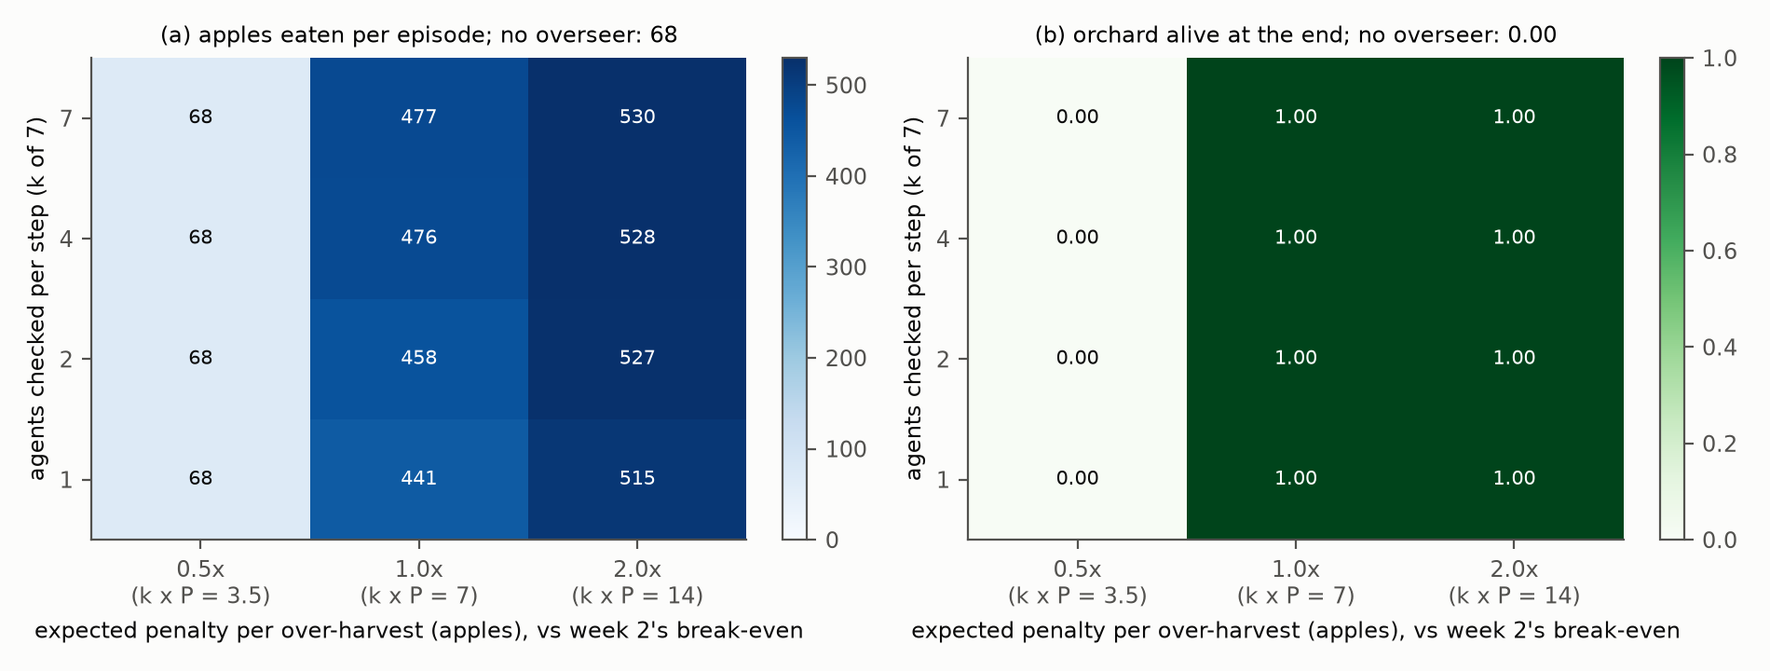
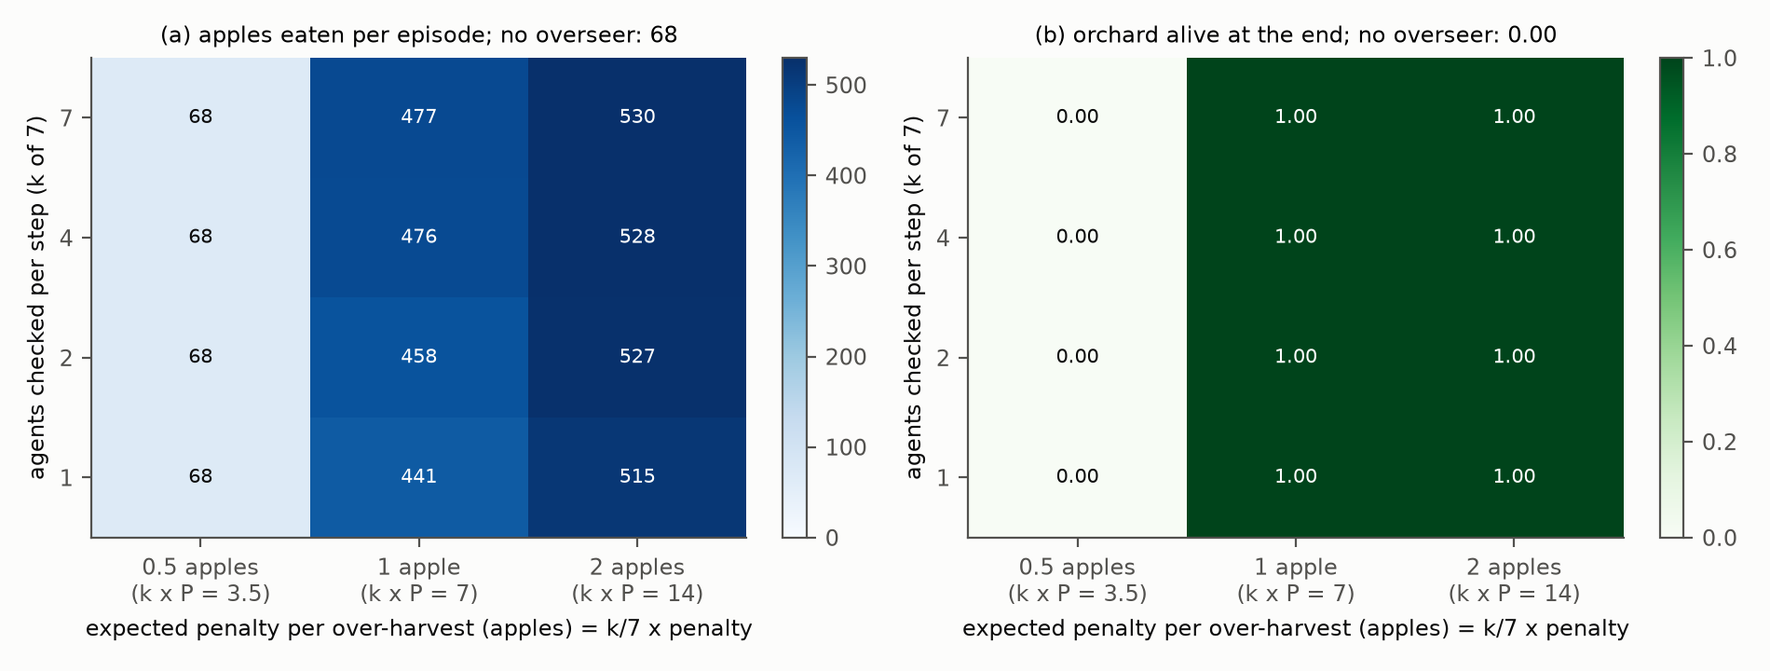
Correct expected-penalty wording: expected penalty per over-harvest is (k/7) x P, so the levels are 0.5/1/2 apples (k x P = 3.5/7/14); protocol Amendment 2; results, F17, trackers and figure labels updated. Weekly deck v2: feedback points as raised, bounding slide grounded in AI Control/Engels/Bazaa

diff --git a/notes/slides/2026-11-16_weekly_update/make_figures.py b/notes/slides/2026-11-16_weekly_update/make_figures.py
@@ -8,7 +8,7 @@ Needs:
 - the three paper PDFs in notes/icml27_lit_review/papers/Read properly/ (git-ignored; from arXiv 2504.18530,
   2501.16173 and 2610.06748). The abstract images are git-ignored too.
 
-harvest_setup.png is made by notes/slides/2026-11-16_yali_update/make_figures.py.
+harvest_setup.png and schelling_no_overseer.png are made by notes/slides/2026-11-16_yali_update/make_figures.py.
 """
 import glob
 import json
@@ -68,26 +68,31 @@ def abstracts():
 
 
 def penalty_bars():
+    """Apples eaten at each expected penalty, one bar per number of checks. Bars are seed means; whiskers the seed range."""
     plt.rcParams.update({"font.size": 13, "axes.labelsize": 13, "legend.fontsize": 12})
     t = json.load(open("notes/socialjax/phase2_ippo/summary.json"))["arms"]
-    fig, ax = plt.subplots(figsize=(9, 5.2))
+    blues = ("#c6dbef", "#6baed6", "#2171b5", "#08306b")  # 1, 2, 4, 7 checks: light to dark
+    fig, ax = plt.subplots(figsize=(9, 5.0))
     n = t["A_none"]["apples_eaten"]
-    ax.bar(0, n["mean"], 0.5, color=INK2, yerr=[[n["mean"] - n["lo"]], [n["hi"] - n["mean"]]], capsize=3)
-    w = 0.19
-    for i, (k, col) in enumerate(zip((1, 2, 4, 7), (YELLOW, BLUE, VIOLET, AQUA))):
+    ax.bar(0, n["mean"], 0.55, color="#9e9e9e", edgecolor="white")
+    ax.errorbar(0, n["mean"], [[n["mean"] - n["lo"]], [n["hi"] - n["mean"]]], color="#333333", lw=1.2, capsize=0)
+    w = 0.2
+    for i, (k, col) in enumerate(zip((1, 2, 4, 7), blues)):
         for j, c in enumerate((0.5, 1.0, 2.0)):
             r = t[f"B_random_k{k}_c{c}"]["apples_eaten"]
-            ax.bar(1 + j + (i - 1.5) * w, r["mean"], w, color=col, capsize=2,
-                   yerr=[[r["mean"] - r["lo"]], [r["hi"] - r["mean"]]],
-                   label=f"{k} of 7 checked each step" if j == 0 else None)
-    ax.axhline(500, color=INK2, ls="--", lw=1.3)
-    ax.text(-0.35, 510, "7 well-behaved scripted bots: 500", color=INK2, fontsize=11.5, va="bottom")
-    for x in (0, 1):
-        ax.text(x, 95, "orchard\ndies", ha="center", color=ORANGE, fontsize=11.5, weight="bold")
-    ax.set_xticks(range(4), ["no overseer", "3.5", "7", "14"])
-    ax.set_ylim(0, 590)
-    ax.set(xlabel="expected penalty per over-harvest (apples)", ylabel="apples eaten per game")
-    ax.legend(loc="upper left", bbox_to_anchor=(0.0, 0.86), frameon=False)
+            x = 1 + j + (i - 1.5) * w
+            ax.bar(x, r["mean"], w, color=col, edgecolor="white", linewidth=0.8,
+                   label=f"{k} of 7 agents checked per step" if j == 0 else None)
+            ax.errorbar(x, r["mean"], [[r["mean"] - r["lo"]], [r["hi"] - r["mean"]]], color="#333333", lw=1.2, capsize=0)
+    for x, txt in ((0, "orchard died\nin every run"), (1, "orchard died\nin every run"),
+                   (2, "orchard survived\nin every run"), (3, "orchard survived\nin every run")):
+        y = 95 if x < 2 else 560
+        ax.text(x, y, txt, ha="center", va="bottom" if x < 2 else "bottom", fontsize=11, color="#555555", style="italic")
+    ax.set_xticks(range(4), ["no overseer", "0.5", "1", "2"])
+    ax.set_ylim(0, 620)
+    ax.set(xlabel="expected penalty per over-harvest (apples) = chance of being checked × penalty",
+           ylabel="apples eaten per game")
+    ax.legend(loc="upper left", frameon=False, bbox_to_anchor=(0.0, 0.92))
     ax.grid(axis="x", visible=False)
     fig.tight_layout()
     fig.savefig(OUT / "penalty_threshold.png", dpi=200)

diff --git a/experiments/socialjax/analyze_phase2.py b/experiments/socialjax/analyze_phase2.py
@@ -68,10 +68,10 @@ def fig_grid(table):
             if not np.isnan(v):
                 ax.text(b, a, fmt.format(v), ha="center", va="center", fontsize=7.5,
                         color="white" if v > 0.6 * vmax else INK)
-        ax.set_xticks(range(len(LEVELS)), [f"{c}x\n(k x P = {7 * c:g})" for c in LEVELS])
+        ax.set_xticks(range(len(LEVELS)), [f"{c:g} apple{"s" if c != 1 else ""}\n(k x P = {7 * c:g})" for c in LEVELS])
         ax.set_yticks(range(len(KS)), KS)
         ax.grid(False)
-        ax.set(xlabel="expected penalty per over-harvest (apples), vs week 2's break-even",
+        ax.set(xlabel="expected penalty per over-harvest (apples) = k/7 x penalty",
                ylabel="agents checked per step (k of 7)")
         base_txt = f"; no overseer: {fmt.format(base[key]['mean'])}" if base else ""
         ax.set_title(f"{'(a)' if key == 'apples_eaten' else '(b)'} {lab}{base_txt}", fontsize=8.5)
@@ -99,7 +99,7 @@ def fig_curves(runs):
     stage1 = [("A_none", INK2, "no overseer"), ("B_random_k2_c1.0", BLUE, "random k=2, penalty 3.5"),
               ("C_freeze50_k2", ORANGE, "random k=2, freeze 50"), ("D_history_k2_c1.0", AQUA, "history k=2, penalty 3.5"),
               ("D_location_k2_c1.0", YELLOW, "location k=2, penalty 3.5")]
-    stage2 = [("R_none", INK2, "still no overseer")] + [(f"R_random_k{k}_c1.0", col, f"random k={k}, k x P = 7")
+    stage2 = [("R_none", INK2, "still no overseer")] + [(f"R_random_k{k}_c1.0", col, f"random k={k}, expected penalty 1 apple")
                                                          for k, col in zip(KS, (YELLOW, BLUE, VIOLET, AQUA))] + \
              [("R_freeze50_k2", ORANGE, "random k=2, freeze 50"), ("R_history_k2_c1.0", "#1a6b4c", "history k=2")]
     stage3 = [(f"S_off_after_B_random_k{k}_c1.0", col, f"after random k={k}") for k, col in

diff --git a/experiments/socialjax/phase2_runs.py b/experiments/socialjax/phase2_runs.py
@@ -11,7 +11,7 @@ import argparse
 
 SEEDS = (1, 2, 3)
 KS = (1, 2, 4, 7)
-LEVELS = (0.5, 1.0, 2.0)  # expected penalty per over-harvest, k x P, in units of 7 apples
+LEVELS = (0.5, 1.0, 2.0)  # expected penalty per over-harvest in apples: (k/7) x P, so P = 7c/k (k x P = 7c)
 
 
 def penalty(k, c):

diff --git a/notes/socialjax/phase2_ippo/results.md b/notes/socialjax/phase2_ippo/results.md
@@ -21,22 +21,23 @@ Run on CREATE on 15–16 Nov 2026, under `protocol.md` (with Amendment 1).
 
 ## Main table
 
-| Overseer | k × P (apples) | Apples eaten | Orchard alive | Over-harvests | Share of eats that over-harvest | Caught | Apples left at end |
+| Overseer | Expected penalty per over-harvest (apples) | Apples eaten | Orchard alive | Over-harvests | Share of eats that over-harvest | Caught | Apples left at end |
 |---|---|---|---|---|---|---|---|
 | None (arm A) | – | 68 [67, 68] | 0.00 | 30 | 45% | – | 0 |
-| Random, c = 0.5, any k | 3.5 | 68 [68, 68] | 0.00 | 27–29 | 40–42% | 4–27 | 0 |
-| Random k = 1, c = 1 | 7 | 441 [411, 457] | 1.00 | 50 | 11% | 7 | 23 |
-| Random k = 2, c = 1 | 7 | 458 [441, 470] | 1.00 | 39 | 9% | 11 | 24 |
-| Random k = 4, c = 1 | 7 | 476 [454, 493] | 1.00 | 39 | 8% | 22 | 26 |
-| Random k = 7, c = 1 | 7 | 477 [468, 483] | 1.00 | 35 | 7% | 35 | 26 |
-| Random k = 1, c = 2 | 14 | 515 [506, 530] | 1.00 | 7 | 1.4% | 1 | 29 |
-| Random k = 2, c = 2 | 14 | 527 [517, 540] | 1.00 | 6 | 1.2% | 2 | 29 |
-| Random k = 4, c = 2 (2 seeds) | 14 | 528 [523, 534] | 1.00 | 5 | 1.0% | 3 | 29 |
-| Random k = 7, c = 2 | 14 | 530 [522, 536] | 1.00 | 5 | 1.0% | 5 | 29 |
+| Random, c = 0.5, any k | 0.5 | 68 [68, 68] | 0.00 | 27–29 | 40–42% | 4–27 | 0 |
+| Random k = 1, c = 1 | 1 | 441 [411, 457] | 1.00 | 50 | 11% | 7 | 23 |
+| Random k = 2, c = 1 | 1 | 458 [441, 470] | 1.00 | 39 | 9% | 11 | 24 |
+| Random k = 4, c = 1 | 1 | 476 [454, 493] | 1.00 | 39 | 8% | 22 | 26 |
+| Random k = 7, c = 1 | 1 | 477 [468, 483] | 1.00 | 35 | 7% | 35 | 26 |
+| Random k = 1, c = 2 | 2 | 515 [506, 530] | 1.00 | 7 | 1.4% | 1 | 29 |
+| Random k = 2, c = 2 | 2 | 527 [517, 540] | 1.00 | 6 | 1.2% | 2 | 29 |
+| Random k = 4, c = 2 (2 seeds) | 2 | 528 [523, 534] | 1.00 | 5 | 1.0% | 3 | 29 |
+| Random k = 7, c = 2 | 2 | 530 [522, 536] | 1.00 | 5 | 1.0% | 5 | 29 |
 | Random k = 2, freeze 50 (arm C) | – | 77 [75, 78] | 0.00 | 32 | 41% | 9 | 0 |
-| History k = 2, c = 1 (arm D) | 7 | 470 [460, 483] | 1.00 | 32 | 7% | 9 | 26 |
-| Location k = 2, c = 1 (arm D) | 7 | 150 [122, 179] | 1.00 | 77 | 51% | 4 | 6 |
+| History k = 2, c = 1 (arm D) | 1 | 470 [460, 483] | 1.00 | 32 | 7% | 9 | 26 |
+| Location k = 2, c = 1 (arm D) | 1 (if checks were random) | 150 [122, 179] | 1.00 | 77 | 51% | 4 | 6 |
 
+- **Expected penalty per over-harvest** = chance the over-harvest is checked × penalty per catch = (k/7) × P = c apples. (Corrected 16 Nov: an earlier version of this file and of the protocol called k × P the expected penalty; k × P is 7 times it. The runs are unchanged.)
 - **"Over-harvests" is a count**, and it can rise when the orchard lives, because there are more apples to eat. The share column (over-harvests ÷ apples eaten) is the fairer comparison.
 - **"Orchard alive" means at least one apple is left at the end.** The location arm passes that test with about 6 apples left.
 
@@ -47,14 +48,14 @@ Run on CREATE on 15–16 Nov 2026, under `protocol.md` (with Amendment 1).
 - The agents settle at 68 apples per episode, against 500 for restrained bots. 45% of their eats break the m = 3 rule.
 - The setting therefore has a problem for the overseer to fix, so the "what would change the plan" condition is not triggered.
 
-**Q2. Which k × P protects the orchard, and is it the expected penalty that matters?**
-- **It is a sharp threshold set by k × P, as predicted.**
-  - At k × P = 3.5 apples, nothing changes at any k (68 apples, orchard dead). That holds even at k = 7, where every over-harvest is caught with a 0.5-apple penalty.
-  - At k × P = 7 every run saves the orchard (441–477 apples).
-  - At 14 the agents eat 515–530 apples, more than seven restrained bots (500), and only about 1% of their eats break the rule.
-- **The learners' threshold lies between 3.5 and 7 apples.** This is consistent with week 2's break-even of about 7 apples for scripted bots, though this sweep cannot place it more finely than that. A finer sweep (k × P = 4, 5, 6) would.
-- **The cheapest working overseer is k = 1 with a 14-apple penalty:** 1,000 checks per episode, 515 apples. Checking all 7 agents every step (7,000 checks) at the same expected penalty adds only 15 apples.
-- **Second-order effect of k at k × P = 7:** more checks with smaller penalties do a little better (k = 1: 441 [411, 457]; k = 7: 477 [468, 483]; the seed ranges do not overlap). A plausible reason is that a learner sees a steadier signal when catches are frequent and small. With 3 seeds this is a lead, not a result.
+**Q2. Which expected penalty protects the orchard, and is it the expected penalty that matters?**
+- **It is a sharp threshold set by the expected penalty, as predicted.**
+  - At an expected 0.5 apples per over-harvest, nothing changes at any k (68 apples, orchard dead). That holds even at k = 7, where every over-harvest is caught with a 0.5-apple penalty.
+  - At 1 apple every run saves the orchard (441–477 apples).
+  - At 2 apples the agents eat 515–530 apples, more than seven restrained bots (500), and only about 1% of their eats break the rule.
+- **The learners' threshold lies between 0.5 and 1 apple per over-harvest,** roughly the apple the over-harvest gains. This is consistent with week 2's break-even for scripted bots (about 0.9–1.1 apples; k × P ≈ 7), though this sweep cannot place it more finely than that. A finer sweep (0.6, 0.7, 0.8, 0.9 apples) would.
+- **The cheapest working overseer is k = 1 with a 14-apple penalty per catch (2 apples expected per over-harvest):** 1,000 checks per episode, 515 apples. Checking all 7 agents every step (7,000 checks) at the same expected penalty adds only 15 apples.
+- **Second-order effect of k at 1 apple expected:** more checks with smaller penalties do a little better (k = 1: 441 [411, 457]; k = 7: 477 [468, 483]; the seed ranges do not overlap). A plausible reason is that a learner sees a steadier signal when catches are frequent and small. With 3 seeds this is a lead, not a result.
 
 **Q3. Freeze or penalty?**
 - **The penalty wins clearly.** Random k = 2 with a 50-step freeze does nothing useful: 77 apples, orchard dead in every seed, and 41% of eats still break the rule.
@@ -96,6 +97,6 @@ Run on CREATE on 15–16 Nov 2026, under `protocol.md` (with Amendment 1).
 
 ## What this means for the next steps
 
-1. **Phase 3 (the overseer sets its own penalty) has a clear target.** k × P must be above about 7 apples per over-harvest, and the overseer can learn it by watching. A finer sweep at k × P = 4–6 would pin down the threshold for learners.
+1. **Phase 3 (the overseer sets its own penalty) has a clear target.** The expected penalty must be above about 1 apple per over-harvest (k × P above about 7), and the overseer can learn it by watching. A finer sweep between 0.5 and 1 apple would pin down the threshold for learners.
 2. **Phase 4 is well motivated by the location result.** A targeted rule can be worse than random even before agents adapt. The red-team loop should include a proxy-targeted overseer as a known weak baseline and test whether history targeting stays ahead once agents can see checks.
 3. **Freeze is dropped as the main consequence.** Phases 3–5 will use the reward penalty.

diff --git a/PROJECT_HISTORY.md b/PROJECT_HISTORY.md
@@ -134,7 +134,7 @@ test against the same fixed reviewer protocol.
 | **Harvest overseer wrapper and bots** (15 Nov) | Ameer: do steps 1–4 of the plan and integrate Yali's feedback. | `overseer/socialjax/` wraps SocialJax `harvest_common_open` (individual rewards): the rule (eating an apple that leaves fewer than m = 3 apples within two squares, judged on the map the agent saw), k-of-N checks (none, all, random, round_robin, history, location), penalty and freeze, a weaker inspector (miss and false-alarm rates), and a cost per check plus per step of history read (Yali's token-cost feedback). Scripted bots: restrained, greedy, sneaky, random. 15 tests pass in `.venv-socialjax`; CPU setup in `scripts/socialjax_local_setup.sh` (SocialJax 18e2171). Preview, not frozen, 5 seeds, k = 2, freeze 50 (`notes/socialjax/README.md`): one greedy bot kills the orchard with no overseer; history targeting saves it (337 apples, 5/5 alive) where random and round-robin do not; sneaky bots beat location targeting (0/5 alive). A first version judged eats after everyone moved and gave restrained bots ~30 false violations per episode; fixed. | Week 2: Schelling diagram, m, k × consequence heatmap. The CREATE smoke-job check is blocked on MFA approval. |
 | **CREATE speed check** (15 Nov) | Ameer: do step 1 (CREATE). | Smoke job 38280051 (28 Oct) completed on an A40 in 7 min 46 s. SocialJax's Harvest IPPO defaults to a shared reward, so runs need `reward=individual`. Speed jobs: 38654061 failed (node without the python module; scripts fixed); 38654092 was preempted on `interruptible_gpu`; 38654239 (A100 40GB, 1 vs 3 updates: 445 vs 356 s) showed start-up dominates; 38654514 (H200, 21 updates of 256 envs x 1,000 steps) took 421 s, so a full 1e8-step run takes at most about 2.2 h. | Week 2 with bots, then IPPO sweeps on the `gpu` partition. |
 | **Week 2 with scripted bots** (15 Nov) | Ameer: do week 2 now. | Protocol written first (`notes/socialjax/week2_bots/protocol.md`; Amendment 1 after an unexpected result). m = 3 chosen (7 restrained bots eat 500 apples vs 393 at m = 4 and 190 at m = 2; alive 10/10). Harvest Open at m = 3 is a dilemma by the greed condition (R_c(7) 71.5 > R_d(0) 9.6; R_d(6) 30.1 > R_c(6) 9.2); one greedy bot kills the orchard in 10/10. A lone greedy bot never beats all-restrain over 999 steps (30 vs 71.5), so the protocol's break-even against all-restrain does not exist; against the same group the break-even penalty times k is about 7 apples at every k (expected penalty decides, as in Fishery L4). Freeze: against 1 greedy + 6 restrained, history targeting saves the orchard at k = 2 with a 50-step freeze where random needs k = 6. Results: `notes/socialjax/week2_bots/results.md`. Runner fixes: save per part; clear JAX caches (a run died silently mid-sweep). | IPPO on CREATE: k × penalty around 7 apples, freeze vs penalty, from scratch and from over-harvesting agents. |
-| **Phase 2, IPPO learners, stage 1** (15–16 Nov) | Ameer: do IPPO on CREATE the way described. | Protocol written first (`notes/socialjax/phase2_ippo/protocol.md`; Amendment 1 after the pilot replaced the switch-off evaluation, which is identical by construction for a penalty, with stage 3 switch-off training). 46 of 48 stage 1 runs (1e8 steps, 3 seeds). No overseer: orchard dead in every env, 68 apples, 45% of eats break the rule. Random checks: k × penalty 3.5 apples does nothing at any k; 7 saves the orchard at every k (441–477 apples); 14 gives 515–530, above 7 restrained bots (500). Freeze 50 at k = 2 fails (77). History k = 2 = random at the end (470 vs 458) but alive in 98–100% of envs by update 50 vs 14–57%. Location targeting fails (150 apples; catches 5% of over-harvests vs 28% random, already 4% before learning: a bad proxy). Node arc-hpc-comp035 had no GPU; 2 runs reran (38662888), script now checks for a GPU. Results: `notes/socialjax/phase2_ippo/results.md`; F17. | Stages 2–3 (queued); finer sweep at k × P = 4–6; phase 3 (overseer sets its own penalty). |
+| **Phase 2, IPPO learners, stage 1** (15–16 Nov) | Ameer: do IPPO on CREATE the way described. | Protocol written first (`notes/socialjax/phase2_ippo/protocol.md`; Amendment 1 after the pilot replaced the switch-off evaluation, which is identical by construction for a penalty, with stage 3 switch-off training). 46 of 48 stage 1 runs (1e8 steps, 3 seeds). No overseer: orchard dead in every env, 68 apples, 45% of eats break the rule. Random checks (expected penalty per over-harvest = k/7 × penalty): 0.5 apples does nothing at any k; 1 apple saves the orchard at every k (441–477 apples); 2 gives 515–530, above 7 restrained bots (500). Freeze 50 at k = 2 fails (77). History k = 2 = random at the end (470 vs 458) but alive in 98–100% of envs by update 50 vs 14–57%. Location targeting fails (150 apples; catches 5% of over-harvests vs 28% random, already 4% before learning: a bad proxy). Node arc-hpc-comp035 had no GPU; 2 runs reran (38662888), script now checks for a GPU. Results: `notes/socialjax/phase2_ippo/results.md`; F17. | Stages 2–3 (queued); finer sweep between 0.5 and 1 apple expected; phase 3 (overseer sets its own penalty). |
 
 **7 Oct: paper exhibits.**
 - Built for claims 1–5, following how the closest papers present their results.

diff --git a/notes/claude_audit_20261005/FINDINGS_AND_IMPLICATIONS.md b/notes/claude_audit_20261005/FINDINGS_AND_IMPLICATIONS.md
@@ -187,7 +187,7 @@ Started 14 October 2026.
 
 - **Found** (SocialJax Harvest Open, 7 IPPO agents with individual rewards, 1e8 steps, 3 seeds; rule m = 3; perfect inspector; agents cannot see checks):
   - **No overseer:** the orchard dies in every env (68 apples per episode; 45% of eats break the rule).
-  - **Random checks:** k × penalty of 3.5 apples changes nothing at any k (even k = 7). At 7 every run saves the orchard (441–477 apples). At 14 the agents eat 515–530, more than 7 restrained bots (500).
+  - **Random checks** (expected penalty per over-harvest = k/7 × penalty): an expected 0.5 apples changes nothing at any k (even k = 7). At 1 apple every run saves the orchard (441–477 apples). At 2 the agents eat 515–530, more than 7 restrained bots (500).
   - **Cheapest working overseer:** k = 1 with a 14-apple penalty (515 apples with 1,000 checks per episode, against 530 with 7,000).
   - **A 50-step freeze at k = 2 fails** (77 apples).
   - **History targeting** ends level with random but protects the orchard much sooner.
@@ -196,9 +196,9 @@ Started 14 October 2026.
   - The Fishery result "the expected fine decides" (L4, F14) carries over to learning agents in a spatial game, with a threshold near the scripted-bot break-even (about 7 apples).
   - The budget question becomes how large a penalty one check can carry. That depends on false alarms, which are not yet tested.
   - Targeting is only as good as its proxy (as in Fishery T1).
-- **Paper must say.** This is the baseline result for the ICML overseer paper: a budgeted overseer works against learners once k × P is above the threshold. Targeting needs a good signal, and its gains here are speed, not end state, because parameter-shared agents have no persistent cheater.
+- **Paper must say.** This is the baseline result for the ICML overseer paper: a budgeted overseer works against learners once the expected penalty is above the threshold (about 1 apple per over-harvest, the apple it gains). Targeting needs a good signal, and its gains here are speed, not end state, because parameter-shared agents have no persistent cheater.
 - **Evidence.** `notes/socialjax/phase2_ippo/results.md`, `summary.json`, `fig_checks_by_penalty.png`, `fig_learning_curves.png`.
-- **Status:** open. Two k = 4 cells have 2 of 3 seeds (reruns queued). Late switch-on and switch-off (stages 2–3) are pending, and so is a finer sweep at k × P = 4–6.
+- **Status:** open. Two k = 4 cells have 2 of 3 seeds (reruns queued). Late switch-on and switch-off (stages 2–3) are pending, and so is a finer sweep between 0.5 and 1 apple expected. (Wording corrected 16 Nov: k × P is 7 times the expected penalty.)
 
 ---
 

diff --git a/notes/socialjax/week2_bots/results.md b/notes/socialjax/week2_bots/results.md
@@ -77,14 +77,14 @@ Fig. (a), (c): the greedy agent against the restrained agents in the same group 
 | Break-even penalty per catch (apples) | 7.6 | 3.6 | 2.4 | 1.7 | 1.3 | 1.1 | 1.0 |
 | k × break-even | 7.6 | 7.2 | 7.2 | 6.8 | 6.5 | 6.8 | 6.8 |
 
-- **Fewer checks need a proportionally bigger penalty:** k × penalty stays at about 7 apples. With a greedy agent that cannot dodge, deterrence depends on the expected penalty per over-harvest (chance of a check × penalty), not on either alone.
+- **Fewer checks need a proportionally bigger penalty:** k × penalty stays at about 7 apples, which is an expected penalty of about 1 apple per over-harvest (chance of a check k/7 × penalty; corrected wording 16 Nov). With a greedy agent that cannot dodge, deterrence depends on the expected penalty per over-harvest (chance of a check × penalty), not on either alone.
 - This is the same pattern as the Fishery LLM study (L4: "the expected fine decides").
 - Against "everyone restrains" (fig. (b)) greed never pays, as explained above.
 
 ## What this means for the next step (IPPO on CREATE)
 
 1. **Rule and settings:** use m = 3, individual rewards, window 1.
-2. **Consequence:** a reward penalty is what a learning agent responds to. Sweep k × penalty around k × penalty ≈ 7 apples (49 reward), which is the line where greed stops paying against fixed greedy behaviour.
+2. **Consequence:** a reward penalty is what a learning agent responds to. Sweep k × penalty around k × penalty ≈ 7 apples (an expected penalty of about 1 apple per over-harvest; 49 reward), which is the line where greed stops paying against fixed greedy behaviour.
 3. **Freeze vs penalty:** compare them. A freeze also protects the orchard directly but needs 50+ steps.
 4. **Targeting:** expect it to help against agents that over-harvest openly (at a 50-step freeze, history needs k = 2 where random needs k = 6) and to be exploitable by agents that learn when they are unwatched. That is the phase 4 red-team test.
 5. **Caveat:** these bots never respond to penalties and see the whole map; the learning agents will do neither.

diff --git a/notes/phd_plan/2026-11-15_phased_plan.md b/notes/phd_plan/2026-11-15_phased_plan.md
@@ -210,12 +210,12 @@ All are in the Zotero collection ICML unless marked.
 - [x] Random vs round-robin vs targeted against the sneaky bot.
 - [ ] One-page write-up for Yali.
 
-**Weeks 3–4, 30 Nov–13 Dec: learning agents (phases 2–3, CREATE).** Stage 1 done 16 Nov: `notes/socialjax/phase2_ippo/results.md` (no overseer: orchard dies in every env; a sharp threshold at k × P between 3.5 and 7 apples at every k; k = 1 with a 14-apple penalty eats 515 apples, more than restrained bots; freeze 50 fails; history = random at the end but much faster; location targeting fails, catching 5% of over-harvests).
+**Weeks 3–4, 30 Nov–13 Dec: learning agents (phases 2–3, CREATE).** Stage 1 done 16 Nov: `notes/socialjax/phase2_ippo/results.md` (no overseer: orchard dies in every env; a sharp threshold at an expected penalty between 0.5 and 1 apple per over-harvest (k × P between 3.5 and 7), at every k; k = 1 with a 14-apple penalty eats 515 apples, more than restrained bots; freeze 50 fails; history = random at the end but much faster; location targeting fails, catching 5% of over-harvests).
 - [x] IPPO with individual rewards and no overseer; save the checkpoint once agents over-harvest.
 - [x] Switch the overseer on from scratch at k = 1, 2, 4, 7 × three penalty levels (stage 1).
 - [ ] Switch the overseer on from the over-harvesting checkpoint (stage 2, queued).
 - [ ] Switch-off test (stage 3: agents keep learning with the overseer removed; queued).
-- [ ] Finer sweep at k × P = 4, 5, 6 apples to place the learners' threshold.
+- [ ] Finer sweep between 0.5 and 1 apple expected per over-harvest to place the learners' threshold.
 - [ ] The overseer sets its own penalty (watch first).
 
 **Weeks 5–7, 14 Dec–3 Jan: agents that dodge, and a weaker overseer (phase 4, plus 5a in RL).**

diff --git a/notes/socialjax/README.md b/notes/socialjax/README.md
@@ -101,6 +101,6 @@ What it suggests (scripted bots only; they don't learn, and greedy bots ignore c
 
 Week 2 (done 15 Nov): `week2_bots/results.md`: m = 3, Schelling diagrams, k × freeze and k × penalty heatmaps. Next: IPPO on CREATE.
 
-Phase 2 with IPPO learners (stage 1 done 16 Nov): `phase2_ippo/results.md`. With no overseer the learners strip the orchard in every env (68 apples). Random checks save it once k × penalty reaches 7 apples, at any k, and a 3.5-apple level does nothing. A 50-step freeze fails. History targeting matches random at the end but learns faster. Location targeting fails (5% of over-harvests caught). Stages 2 (overseer switched on late) and 3 (switched off) are queued.
+Phase 2 with IPPO learners (stage 1 done 16 Nov): `phase2_ippo/results.md`. With no overseer the learners strip the orchard in every env (68 apples). Random checks save it once an over-harvest costs an expected 1 apple (chance of a check k/7 × penalty), at any k, and 0.5 apples does nothing. A 50-step freeze fails. History targeting matches random at the end but learns faster. Location targeting fails (5% of over-harvests caught). Stages 2 (overseer switched on late) and 3 (switched off) are queued.
 
 CREATE note (16 Nov): node arc-hpc-comp035 shows no GPU, so jobs there silently ran on the CPU. The array script now stops if JAX sees no GPU, and jobs exclude that node.

diff --git a/notes/socialjax/phase2_ippo/protocol.md b/notes/socialjax/phase2_ippo/protocol.md
@@ -77,3 +77,9 @@ A pilot of two runs (arm A and arm B k = 2, c = 1, seed 1, 2e7 steps) checks the
   - Q6 becomes: does over-harvesting return once the agents keep learning without the overseer?
 - The end-of-run evaluation is kept, because it still matters for the freeze arm, where a freeze changes actions.
 - **Timing:** a 1e8-step run takes about 20 min on an H200, so all stages fit in a day.
+
+## Amendment 2 (16 Nov, after stage 1; wording only)
+
+- The protocol called k × P "the expected penalty per over-harvest". That is wrong by a factor of 7. Under random checks an over-harvest is checked with chance k/7, so the expected penalty is (k/7) × P = c apples.
+- The three levels are therefore an expected 0.5, 1 and 2 apples per over-harvest (k × P = 3.5, 7, 14). Week 2's break-even k × P ≈ 7 is an expected penalty of about 1 apple.
+- The runs, the arms and the predictions are unchanged. Only the label changes. `results.md` uses the corrected wording.

diff --git a/notes/claude_audit_20261005/what_we_learned_and_next.md b/notes/claude_audit_20261005/what_we_learned_and_next.md
@@ -7,11 +7,11 @@
 - **Week 2 with bots** (`notes/socialjax/week2_bots/results.md`):
   - m = 3;
   - Harvest is a dilemma by the greed condition;
-  - k × penalty ≈ 7 apples is where greed stops paying;
+  - greed stops paying at an expected penalty of about 1 apple per over-harvest (k × penalty ≈ 7);
   - history targeting needs k = 2 where random needs k = 6 at a 50-step freeze.
 - **Phase 2 stage 1 with IPPO learners on CREATE** (`notes/socialjax/phase2_ippo/results.md`, F17):
   - no overseer kills the orchard every time;
-  - a sharp threshold between k × P = 3.5 and 7 apples, at every k;
+  - a sharp threshold between an expected 0.5 and 1 apple per over-harvest, at every k (corrected wording 16 Nov: k × P is 7 times the expected penalty);
   - k = 1 with a 14-apple penalty is enough;
   - freeze fails;
   - history is faster than random but ends level;
